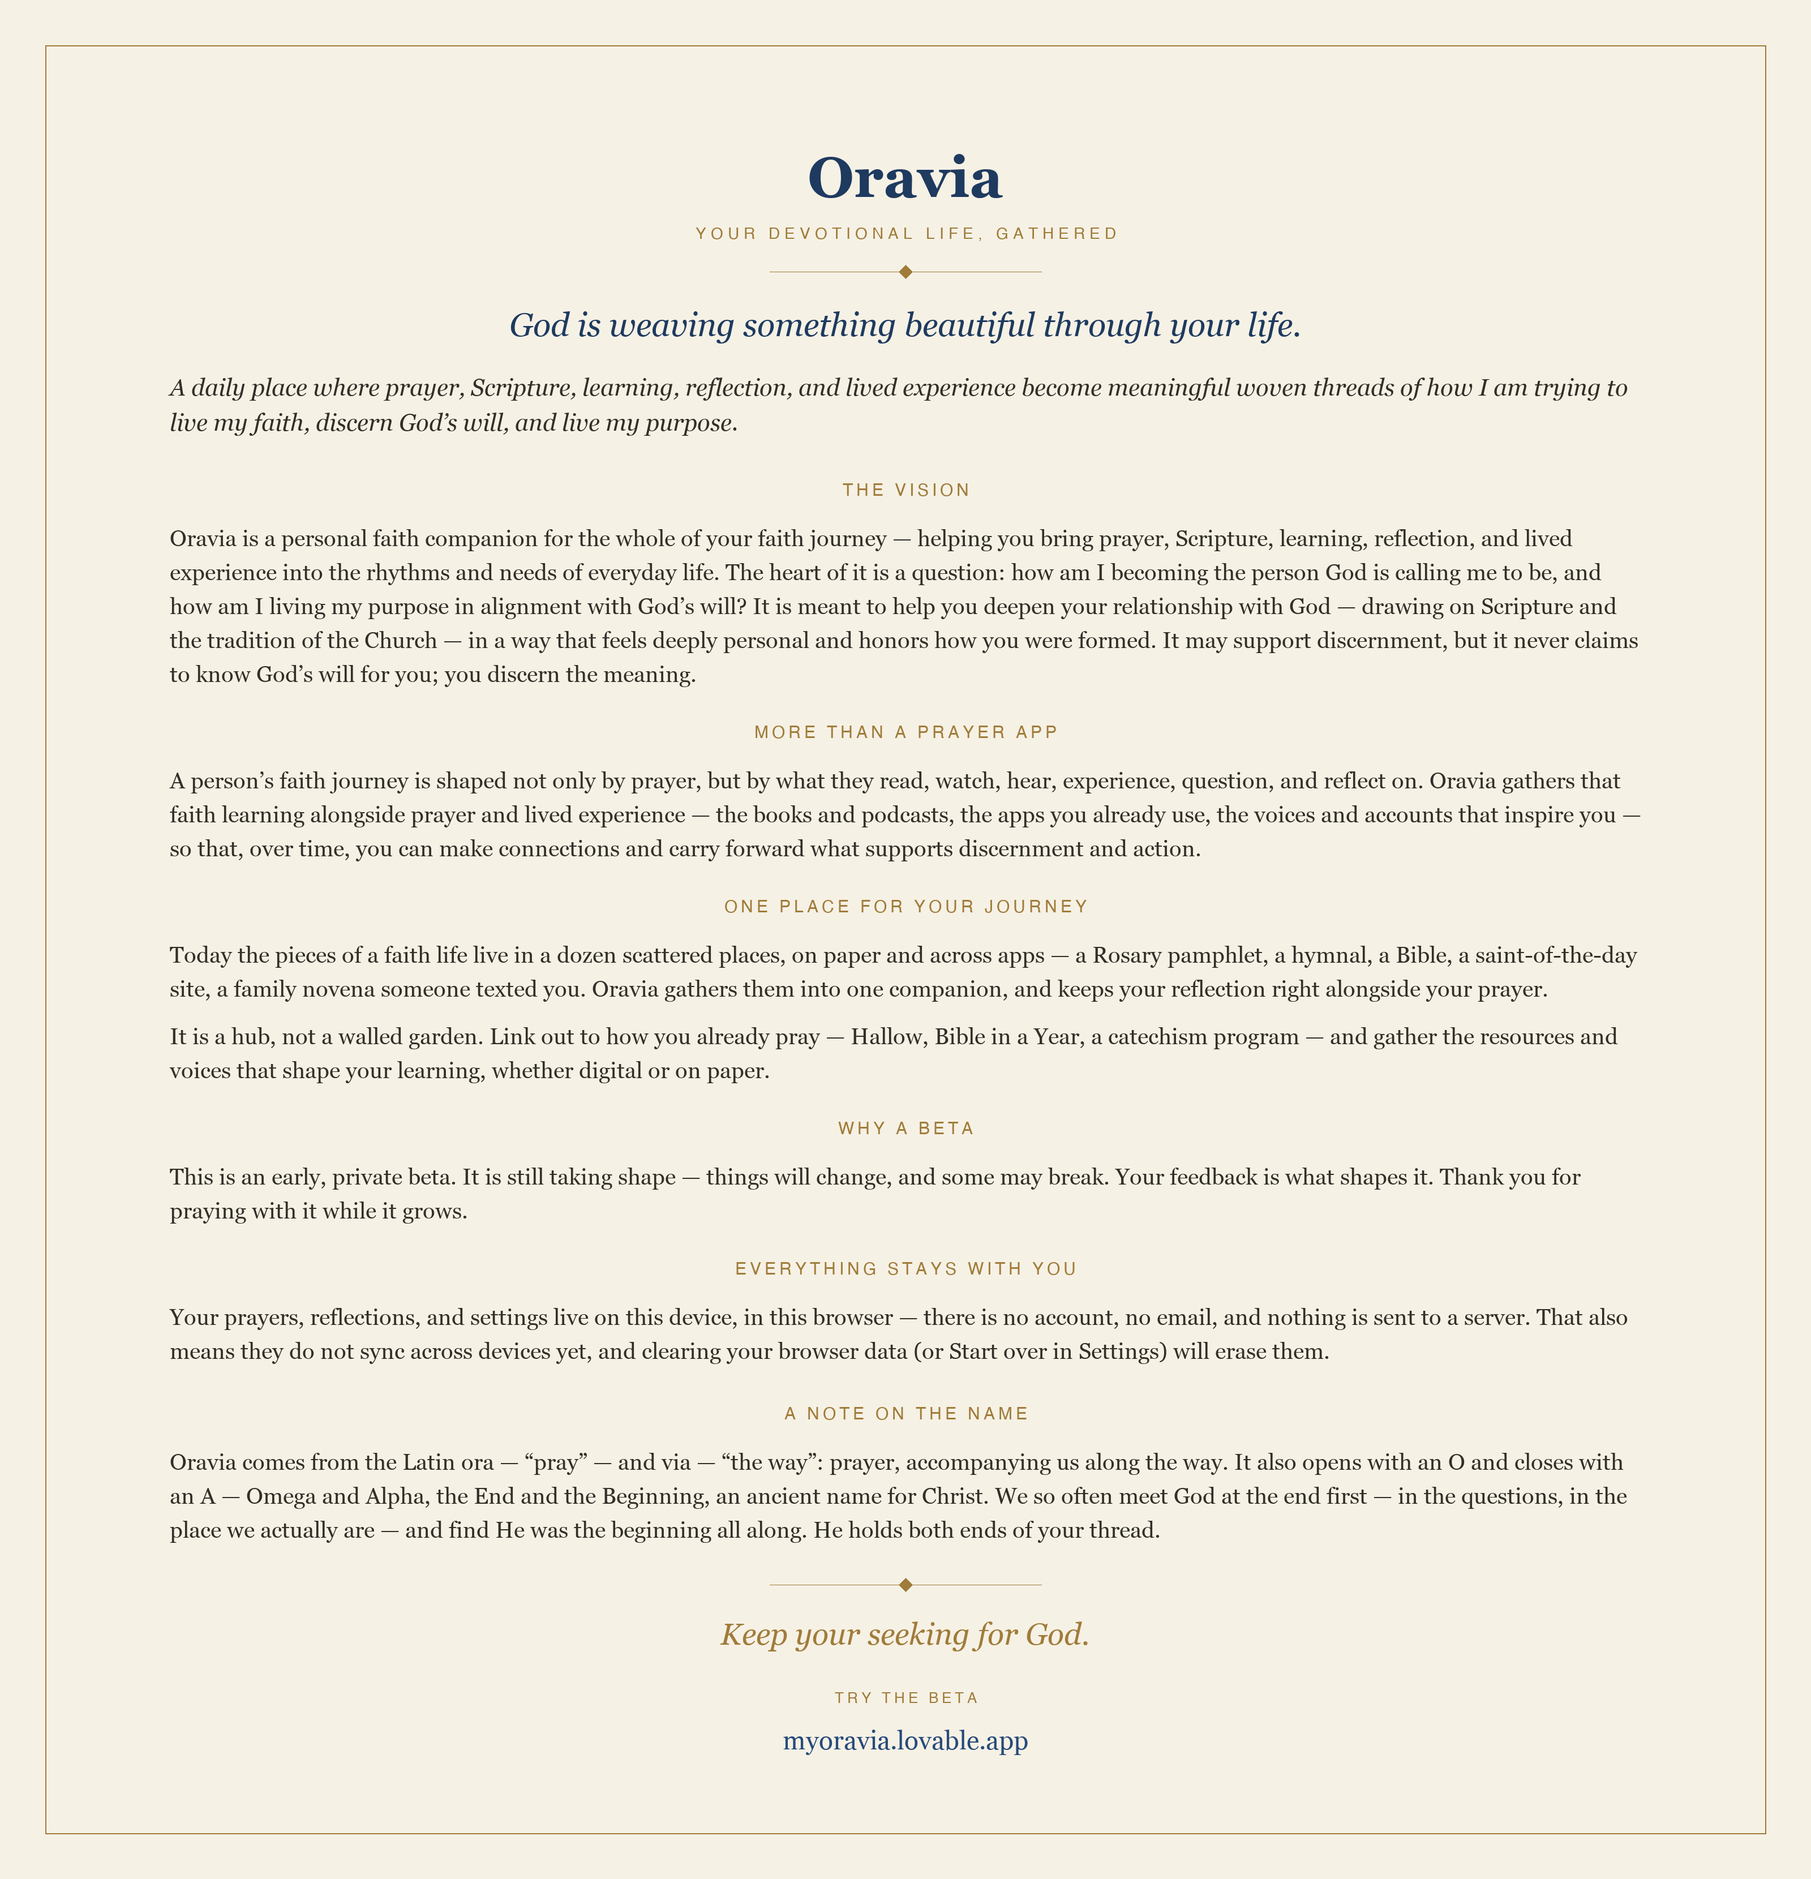
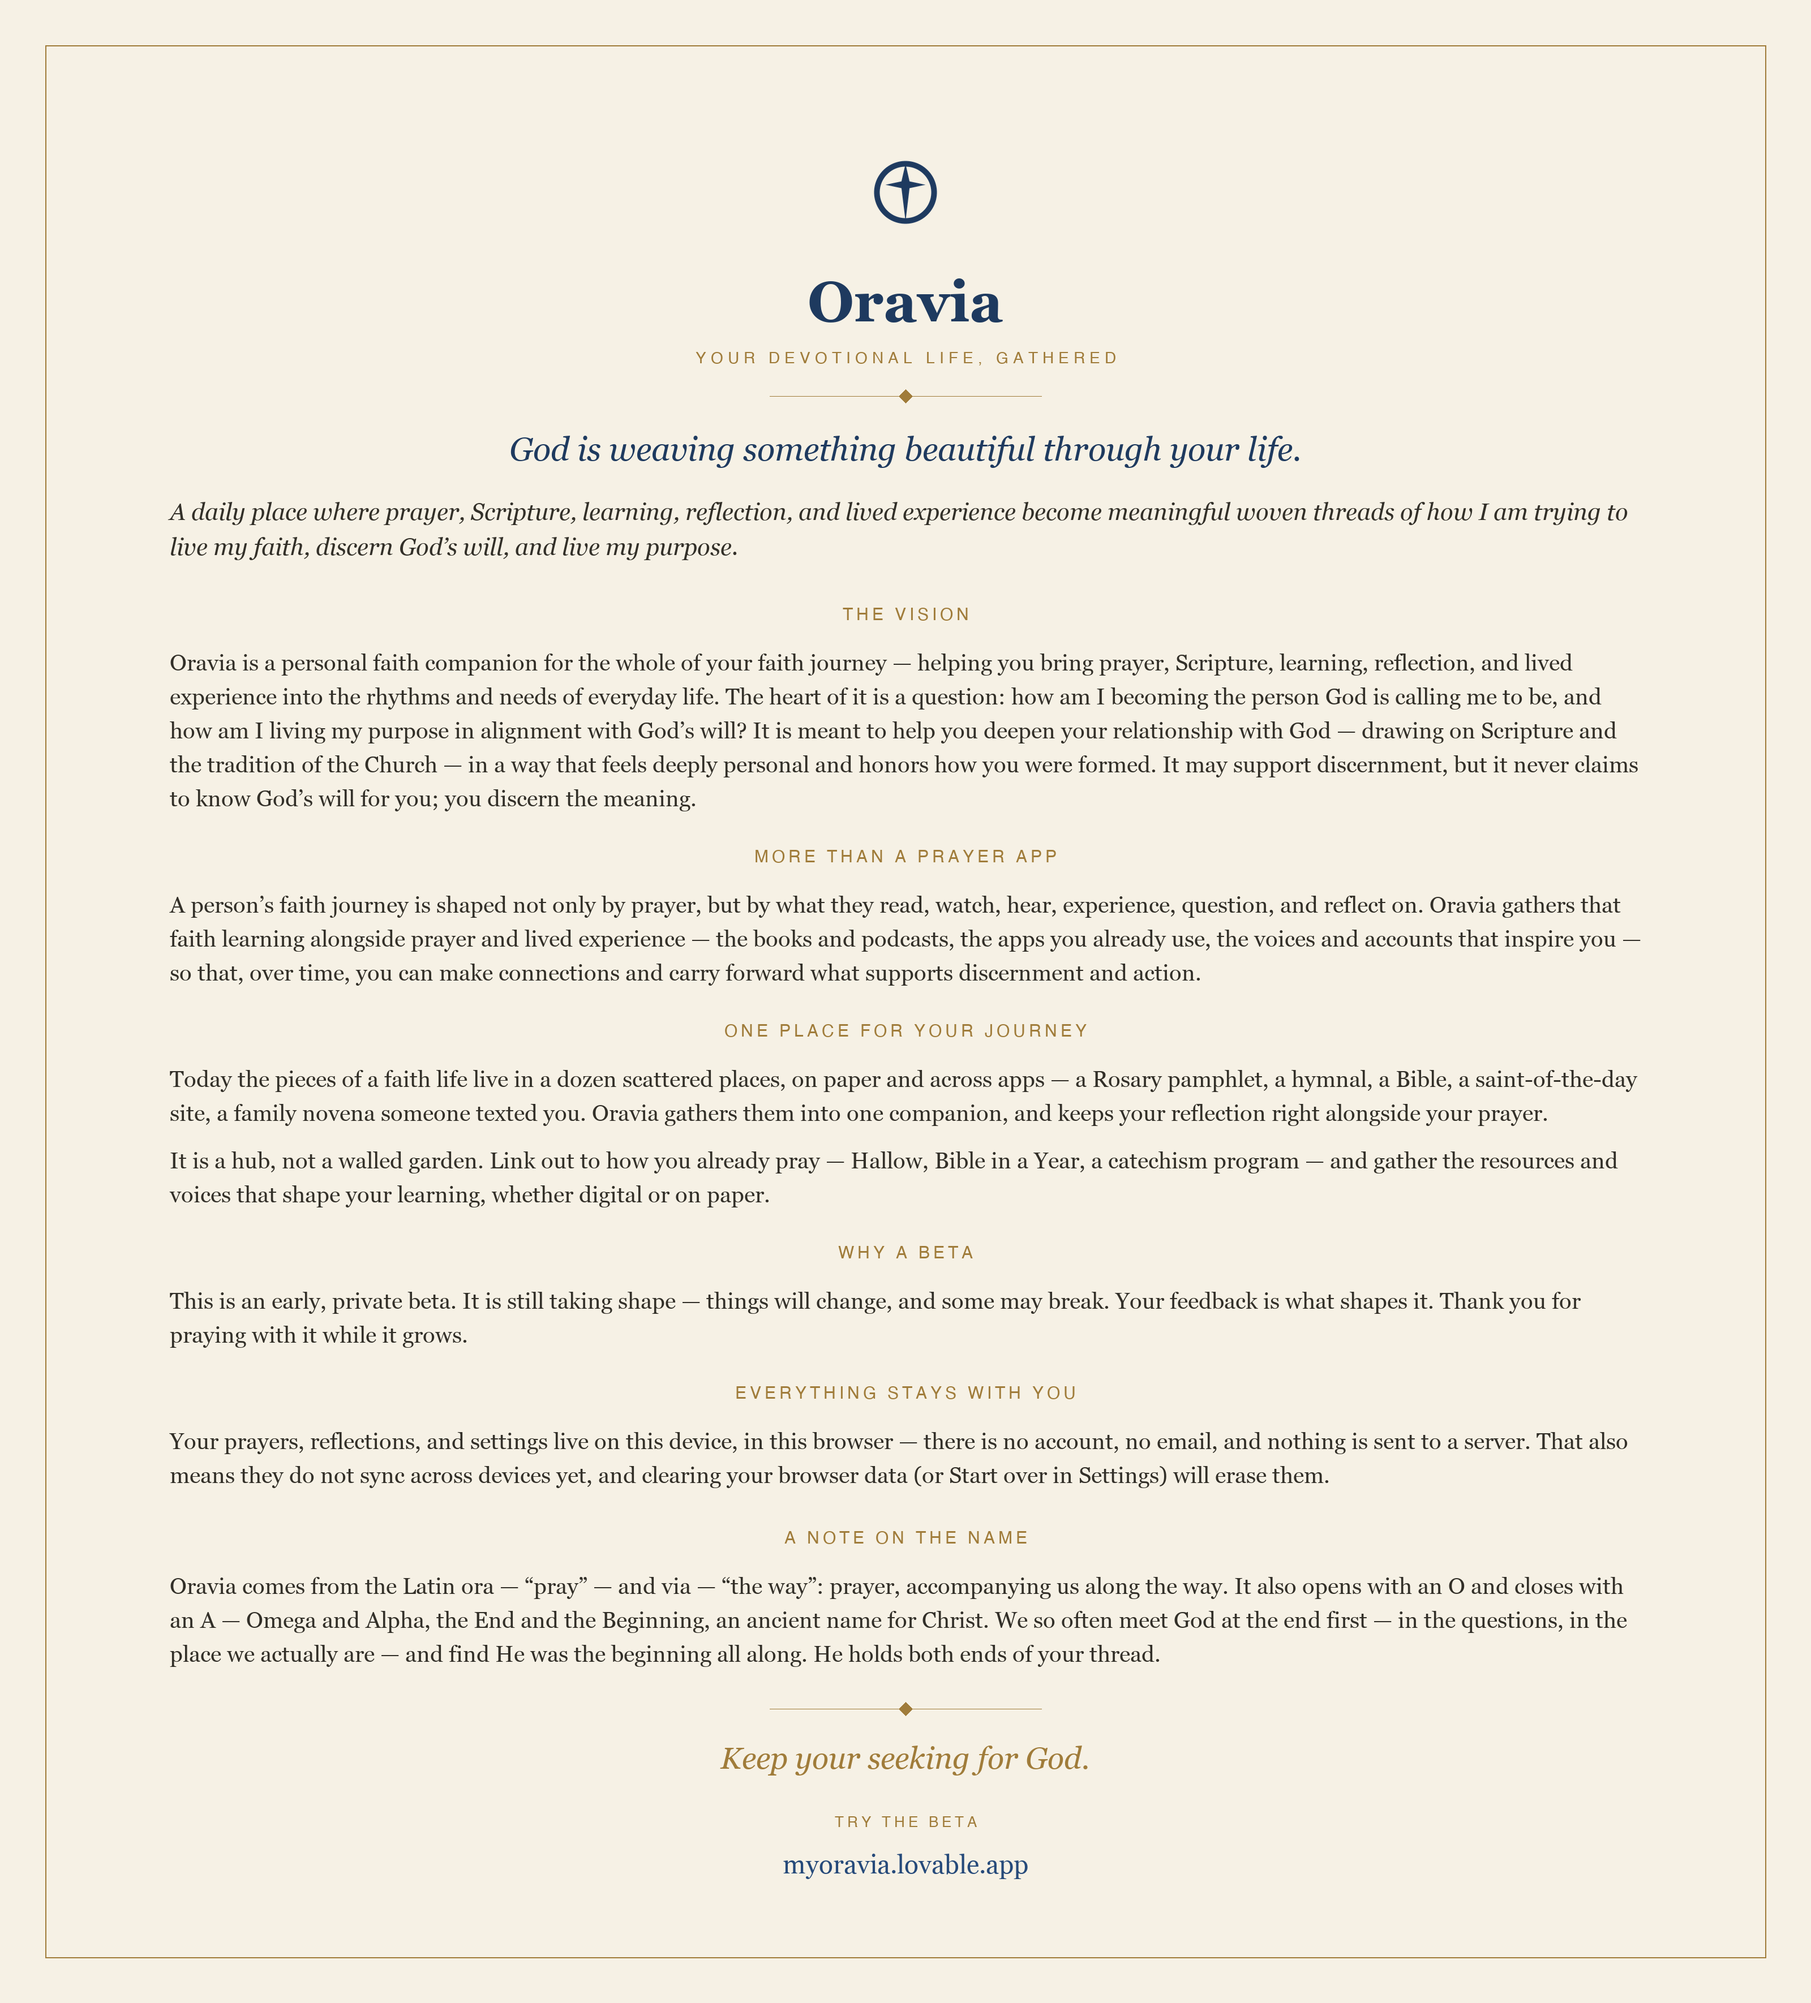
ACTS-158: put the current mark on the About card and flyer
The About card carried NO mark at all, and the flyer still drew the retired
flame-and-open-O -- the same drift ACTS-159 records on the published artifact.
Both now use the ACTS-148 cross-in-compass. Palette and copy untouched.

Two judgment calls:

- The About card's mark is BLUE, not gold. Gold already carries the rule, the
  tracked section labels and the link on that card; a gold mark would join the
  ornament instead of reading as identity. Gold on the dark flyer, where blue
  cannot work.

- Dropped the flyer's thread stub under the mark. The retired flame sat inside
  an OPEN ring and needed that tail to close the composition; this ring is
  closed, so the dash hung as an orphan.

diff --git a/docs/brand/make_flyer.py b/docs/brand/make_flyer.py
@@ -1,6 +1,8 @@
 #!/usr/bin/env python3
 from PIL import Image, ImageDraw, ImageFont
 
+from mark import draw_mark
+
 S = 2  # supersample scale
 W, H = 1080 * S, 1920 * S
 CX = W // 2
@@ -46,16 +48,12 @@ def divider(y):
     r=8*S
     d.polygon([(CX,y*S-r),(CX+r,y*S),(CX,y*S+r),(CX-r,y*S)],fill=GOLD)
 
-# ---- mark: guiding flame + open O + thread ----
-cx,cy,rr=540*S,200*S,56*S
-# flame (teardrop)
-d.polygon([(cx,94*S),(cx+13*S,120*S),(cx+20*S,137*S),(cx+11*S,147*S),(cx,150*S),
-           (cx-11*S,147*S),(cx-20*S,137*S),(cx-13*S,120*S)],fill=GOLD)
-# open ring (gap at top)
-d.arc([cx-rr,cy-rr,cx+rr,cy+rr],start=290,end=610,fill=GOLD,width=int(4*S))
-# center dot + tail
-d.ellipse([cx-5*S,cy-5*S,cx+5*S,cy+5*S],fill=GOLD)
-d.line([(cx,cy+rr),(cx,300*S)],fill=GOLD,width=int(2.4*S))
+# ---- mark: the ACTS-148 cross-in-compass (replaced the retired flame + open O) ----
+_mk = draw_mark(150 * S, GOLD)
+img.paste(_mk, (CX - _mk.width // 2, 116 * S), _mk)
+# No thread stub below the mark: the retired flame sat in an OPEN ring and needed the
+# tail to close the composition. This ring is closed, so a dash under it reads as an
+# orphan rather than as the thread.
 
 # ---- identity ----
 center("Oravia",378,gb(128),IVORY)

diff --git a/docs/brand/make_about.py b/docs/brand/make_about.py
@@ -1,6 +1,8 @@
 #!/usr/bin/env python3
 from PIL import Image, ImageDraw, ImageFont
 
+from mark import draw_mark
+
 S = 2
 W = 1600 * S
 HMAX = 2600 * S
@@ -54,6 +56,13 @@ def rule(after):
     r=6*S; d.polygon([(CX,y-r),(CX+r,y),(CX,y+r),(CX-r,y)],fill=GOLD); y+=after*S
 
 # masthead
+# The mark crowns the wordmark in BLUE, not gold: gold is already carrying the rule,
+# the tracked labels and the link on this card, and the mark should read as identity
+# rather than as another piece of ornament.
+_mk = draw_mark(84 * S, BLUE)
+img.paste(_mk, (CX - _mk.width // 2, y), _mk)
+y += _mk.height + 26 * S
+
 center("Oravia", gb(50), BLUE, 64, 8)
 tracked_center("YOUR DEVOTIONAL LIFE, GATHERED", hv(14), GOLD, 4, 22, 18)
 rule(30)
